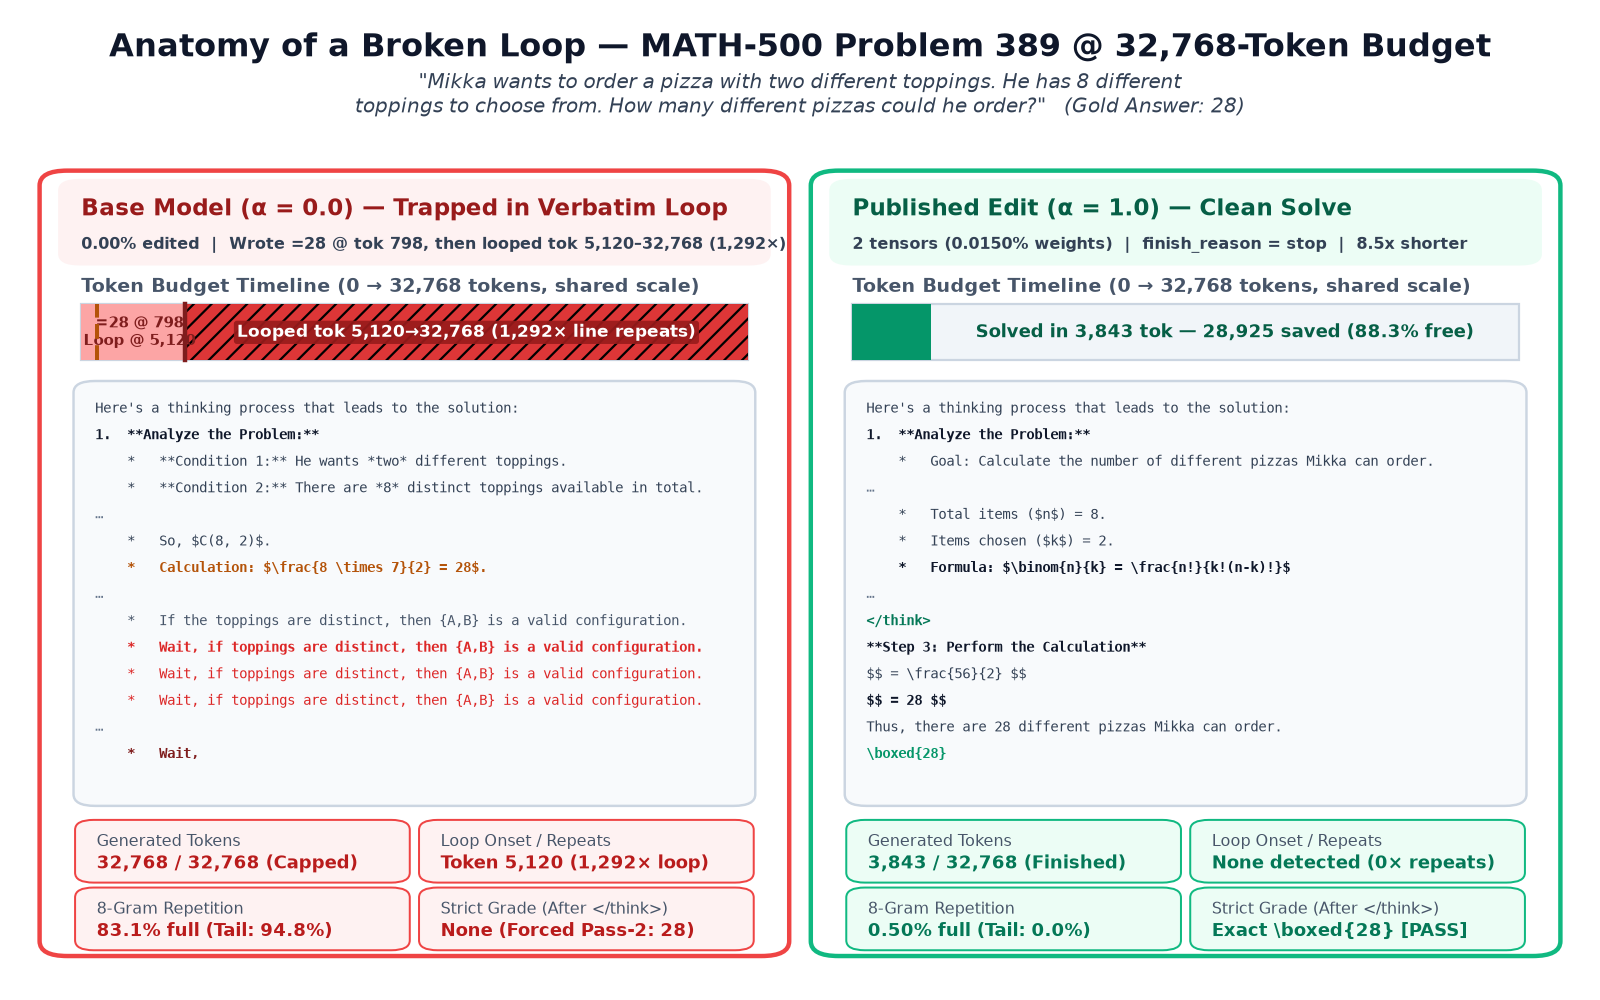
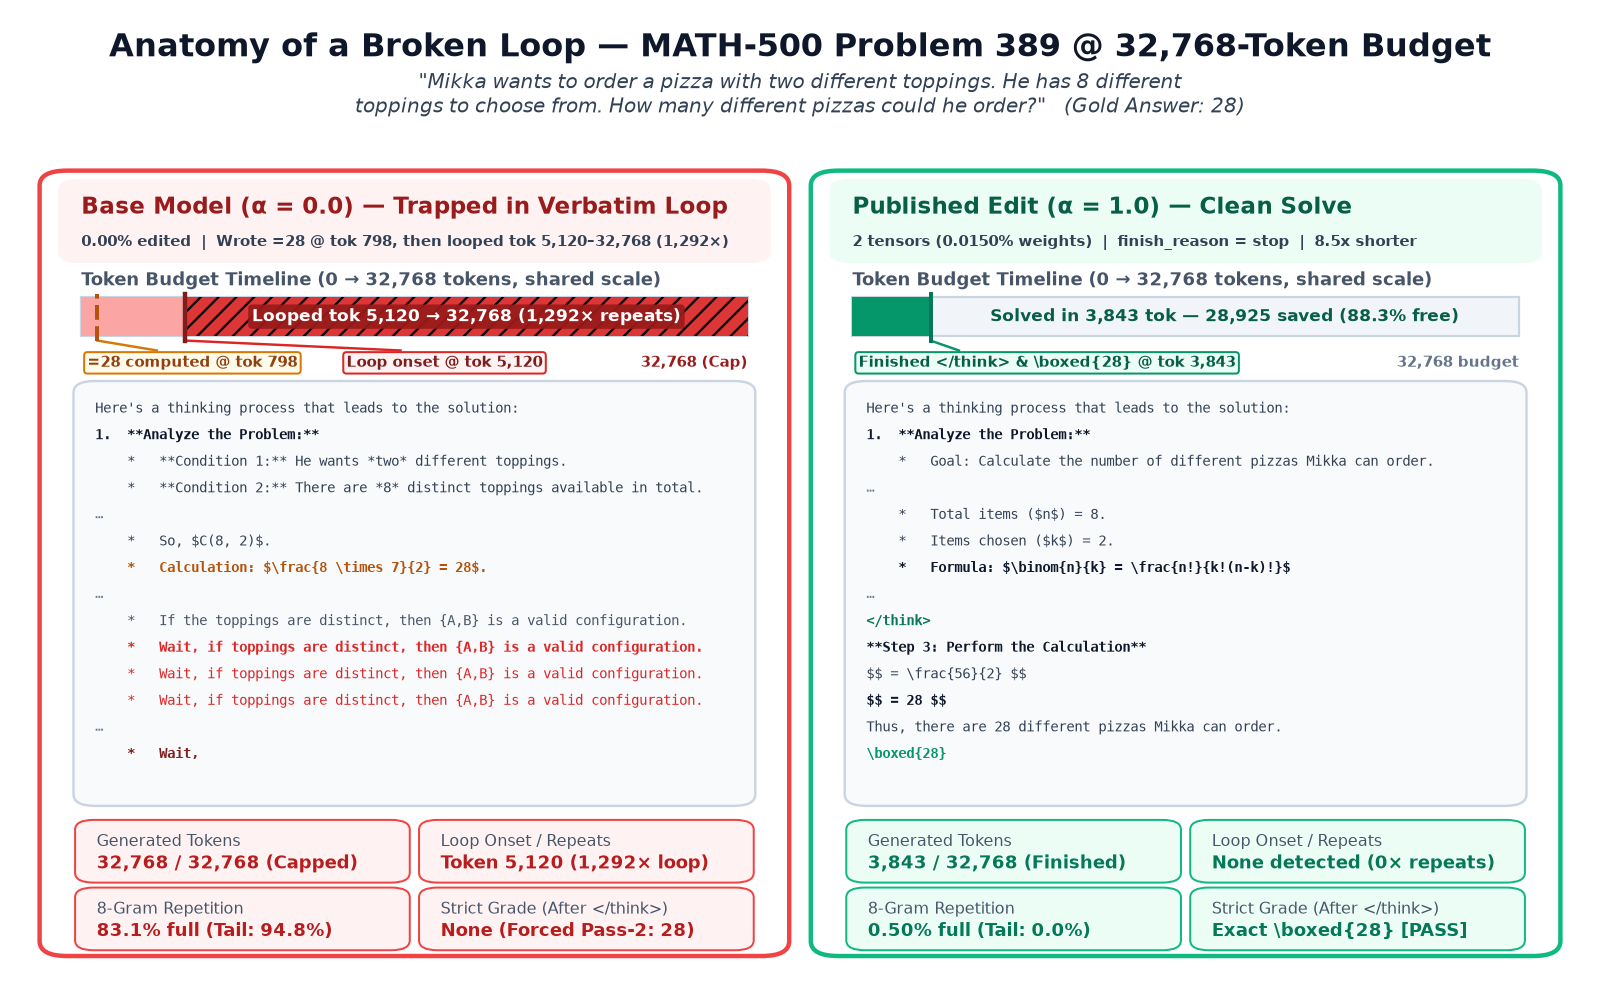
Update outcomes_32k_core subtitle and unclip hero_trace timeline labels

Changed region(s): [[0.0312, 0.186, 0.5, 0.372], [0.5312, 0.186, 0.9375, 0.372]]

diff --git a/scripts/generate_article_charts.py b/scripts/generate_article_charts.py
@@ -984,27 +984,27 @@ def generate_hero_trace_chart(
         ax.add_patch(card)
 
         hdr = mpatches.FancyBboxPatch(
-            (x0 + 0.012, 0.865),
+            (x0 + 0.012, 0.868),
             w - 0.024,
-            0.095,
+            0.092,
             boxstyle="round,pad=0.005,rounding_size=0.014",
             facecolor=header_bg,
             edgecolor="none",
         )
         ax.add_patch(hdr)
-        ax.text(x0 + 0.022, 0.928, header_title, fontsize=10.3, fontweight="bold", color=title_col, va="center")
-        ax.text(x0 + 0.022, 0.885, badge_text, fontsize=7.1, fontweight="bold", color="#334155", va="center")
+        ax.text(x0 + 0.022, 0.930, header_title, fontsize=10.2, fontweight="bold", color=title_col, va="center")
+        ax.text(x0 + 0.022, 0.888, badge_text, fontsize=6.65, fontweight="bold", color="#334155", va="center")
 
         bar_x = x0 + 0.022
         bar_w = w - 0.044
-        bar_y = 0.745
-        bar_h = 0.068
+        bar_y = 0.774
+        bar_h = 0.048
 
         ax.text(
             bar_x,
-            bar_y + bar_h + 0.015,
+            bar_y + bar_h + 0.014,
             "Token Budget Timeline (0 → 32,768 tokens, shared scale)",
-            fontsize=8.4,
+            fontsize=8.3,
             fontweight="bold",
             color="#475569",
         )
@@ -1012,6 +1012,7 @@ def generate_hero_trace_chart(
         track = mpatches.Rectangle((bar_x, bar_y), bar_w, bar_h, facecolor="#f1f5f9", edgecolor="#cbd5e1", lw=1.0)
         ax.add_patch(track)
 
+        call_y = 0.742
         if is_base:
             frac_calc = min(1.0, calc28_tok_val / 32768.0)
             frac_pre = min(1.0, onset0_val / 32768.0)
@@ -1029,35 +1030,69 @@ def generate_hero_trace_chart(
                     alpha=0.92,
                 )
             )
-            # Mark token 798 where base wrote \frac{8 \times 7}{2} = 28
             calc_x = bar_x + bar_w * frac_calc
-            ax.plot([calc_x, calc_x], [bar_y, bar_y + bar_h], color="#b45309", lw=1.8, linestyle="--", zorder=5)
-            ax.plot([bar_x + w_pre, bar_x + w_pre], [bar_y, bar_y + bar_h], color="#7f1d1d", lw=2.0, zorder=5)
-            ax.text(
-                bar_x + (w_pre * 0.56),
-                bar_y + bar_h / 2,
-                f"=28 @ {calc28_tok_val}\nLoop @ {onset0_val:,}",
-                ha="center",
-                va="center",
-                fontsize=6.6,
-                fontweight="bold",
-                color="#7f1d1d",
-            )
+            loop_x = bar_x + w_pre
+            ax.plot([calc_x, calc_x], [bar_y - 0.005, bar_y + bar_h + 0.003], color="#b45309", lw=1.8, linestyle="--", zorder=5)
+            ax.plot([loop_x, loop_x], [bar_y - 0.005, bar_y + bar_h + 0.003], color="#7f1d1d", lw=2.0, zorder=5)
+
+            # Wide unclipped dark-red loop pill centered inside the loop bar
             ax.text(
                 bar_x + w_pre + w_loop / 2,
                 bar_y + bar_h / 2,
-                f"Looped tok {onset0_val:,}→{tok0:,} ({repeat_cnt:,}× line repeats)",
+                f"Looped tok {onset0_val:,} → {tok0:,} ({repeat_cnt:,}× repeats)",
                 ha="center",
                 va="center",
-                fontsize=7.7,
+                fontsize=7.55,
                 fontweight="bold",
                 color="#ffffff",
-                bbox=dict(boxstyle="round,pad=0.18", facecolor="#991b1b", edgecolor="none", alpha=0.92),
+                bbox=dict(boxstyle="round,pad=0.22", facecolor="#991b1b", edgecolor="none", alpha=0.94),
+            )
+
+            # Wide unclipped callout pills below the timeline bar with crisp leader ticks to tok 798 and tok 5,120
+            lbl1_x = bar_x + 0.004
+            ax.text(
+                lbl1_x,
+                call_y,
+                f"=28 computed @ tok {calc28_tok_val:,}",
+                ha="left",
+                va="center",
+                fontsize=6.7,
+                fontweight="bold",
+                color="#92400e",
+                bbox=dict(boxstyle="round,pad=0.22", facecolor="#fffbeb", edgecolor="#d97706", lw=0.9),
+            )
+            ax.plot([calc_x, lbl1_x + 0.045], [bar_y - 0.005, call_y + 0.015], color="#d97706", lw=1.1, zorder=4)
+
+            lbl2_x = bar_x + 0.172
+            ax.text(
+                lbl2_x,
+                call_y,
+                f"Loop onset @ tok {onset0_val:,}",
+                ha="left",
+                va="center",
+                fontsize=6.7,
+                fontweight="bold",
+                color="#7f1d1d",
+                bbox=dict(boxstyle="round,pad=0.22", facecolor="#fef2f2", edgecolor="#dc2626", lw=0.9),
+            )
+            ax.plot([loop_x, lbl2_x + 0.035], [bar_y - 0.005, call_y + 0.015], color="#dc2626", lw=1.1, zorder=4)
+
+            ax.text(
+                bar_x + bar_w,
+                call_y,
+                f"{tok0:,} (Cap)",
+                ha="right",
+                va="center",
+                fontsize=6.7,
+                fontweight="bold",
+                color="#991b1b",
             )
         else:
             frac_used = min(1.0, tok1 / 32768.0)
             w_used = max(bar_w * frac_used, bar_w * 0.08)
+            end_x = bar_x + w_used
             ax.add_patch(mpatches.Rectangle((bar_x, bar_y), w_used, bar_h, facecolor="#059669", edgecolor="none"))
+            ax.plot([end_x, end_x], [bar_y - 0.005, bar_y + bar_h + 0.003], color="#047857", lw=1.8, zorder=5)
             unused_center_x = bar_x + w_used + (bar_w - w_used) * 0.5
             ax.text(
                 unused_center_x,
@@ -1065,9 +1100,33 @@ def generate_hero_trace_chart(
                 f"Solved in {tok1:,} tok — {32768 - tok1:,} saved ({100*(1-frac_used):.1f}% free)",
                 ha="center",
                 va="center",
-                fontsize=7.9,
+                fontsize=7.8,
                 fontweight="bold",
                 color="#065f46",
+            )
+            lbl_ok_x = bar_x + 0.004
+            ax.text(
+                lbl_ok_x,
+                call_y,
+                f"Finished </think> & \\boxed{{28}} @ tok {tok1:,}",
+                ha="left",
+                va="center",
+                fontsize=6.7,
+                fontweight="bold",
+                color="#065f46",
+                bbox=dict(boxstyle="round,pad=0.22", facecolor="#ecfdf5", edgecolor="#059669", lw=0.9),
+                parse_math=False,
+            )
+            ax.plot([end_x, lbl_ok_x + 0.065], [bar_y - 0.005, call_y + 0.015], color="#059669", lw=1.1, zorder=4)
+            ax.text(
+                bar_x + bar_w,
+                call_y,
+                "32,768 budget",
+                ha="right",
+                va="center",
+                fontsize=6.7,
+                fontweight="bold",
+                color="#64748b",
             )
 
         box_y = 0.21
@@ -1461,7 +1520,7 @@ def generate_outcomes_32k_single_chart(
         n_val = int(df_use["n_total"].max()) if not df_use.empty else 200
         title_str = f"32,768-Token Outcomes on Core Cohort (N = {n_val})"
         subtitle_str = (
-            "Looping drops from 89.5% (α = 0.0) to 29.5% (α = 1.25) as strict boxed accuracy jumps 8.5% → 48.5–51.5%"
+            "Looping drops from 89.5% to 25.5%; cap hits from 91.5% to 29.5%"
         )
 
     target = Path(out_path) if out_path is not None else default_out
@@ -1501,7 +1560,7 @@ def generate_outcomes_32k_single_chart(
         color="#0f172a",
         y=0.972,
     )
-    fig.text(
+    sub_t = fig.text(
         0.5,
         0.892,
         subtitle_str,
@@ -1512,6 +1571,12 @@ def generate_outcomes_32k_single_chart(
     )
 
     fig.subplots_adjust(left=0.09, right=0.975, top=0.720, bottom=0.145)
+    fig.canvas.draw()
+    renderer = fig.canvas.get_renderer()
+    max_sub_w = fig.get_window_extent(renderer=renderer).width * 0.92
+    sub_bb = sub_t.get_window_extent(renderer=renderer)
+    if sub_bb.width > max_sub_w:
+        sub_t.set_fontsize(sub_t.get_fontsize() * (max_sub_w / sub_bb.width))
     fig.savefig(target, dpi=DPI, bbox_inches=None)
     plt.close(fig)
     return str(target)

diff --git a/NOTES.md b/NOTES.md
@@ -214,7 +214,7 @@ Extracted directly from Takehi et al.'s (2026) upstream evaluation logs (`Rikiya
   - [`assets/article/headline_budget_curve_full.png`](assets/article/headline_budget_curve_full.png) — `1600 × 1000` desktop full budget curve adding `α=1.25` (`30.5%` @ 16k, `51.5%` @ 32k) and Takehi et al.'s (2026) re-tokenized 1st-sample truncated curves (`N=200`).
   - [`assets/article/hero_trace.png`](assets/article/hero_trace.png) — `1600 × 1000` side-by-side 32k trace on `test/counting_and_probability/389.json` with 100% verbatim JSONL excerpts (`…` for cuts): Base computes `= 28` at token `798` then loops from token `5,120` to `32,768` (`1,292×` repeats), while Edited (`α=1.0`) solves in `3,843` tokens with `\boxed{28}`.
   - [`assets/article/outcomes_32k.png`](assets/article/outcomes_32k.png) — `1600 × 1000` 2-panel mutually exclusive 4-outcome breakdown (`Correct`, `Wrong answer`, `Capped while looping`, `Capped not looping`) across Core `N=200` and Paired 6-Dose `N=100`.
-  - [`assets/article/outcomes_32k_core.png`](assets/article/outcomes_32k_core.png) — `1600 × 1000` standalone Core `N=200` 32k outcome chart with large phone-readable fonts (`8.5% → 48.5–51.5%` strict boxed accuracy; looping drops `89.5% → 29.5%`).
+  - [`assets/article/outcomes_32k_core.png`](assets/article/outcomes_32k_core.png) — `1600 × 1000` standalone Core `N=200` 32k outcome chart with large phone-readable fonts (`Looping drops from 89.5% to 25.5%; cap hits from 91.5% to 29.5%`; strict boxed accuracy jumps `8.5% → 48.5–51.5%`).
   - [`assets/article/outcomes_dose.png`](assets/article/outcomes_dose.png) — `1600 × 1000` standalone Paired 6-Dose `N=100` chart (`α ∈ {0, 0.5, 0.75, 1, 1.25, 1.5}`) showing monotonic loop reduction (`91% → 17%`), rising finished-wrong answers (`9%` @ `0.75`, `21%` @ `1.0`, `32%` @ `1.5`), and McNemar noise notes (`p = 0.14` for `0.75 vs 1.0`).
   - [`assets/article/loop_onset.png`](assets/article/loop_onset.png) — `1600 × 1000` phone-first loop-onset scatter (`Loops: 179/200 base (0 escaped) vs 66/200 edited (39 escaped)`) with medians `6.1k / 18.4k / 22.8k`.
   - [`assets/article/loop_onset_full.png`](assets/article/loop_onset_full.png) — `1600 × 1000` full 2-panel loop-onset window histogram + onset position scatter across `N=200`.
